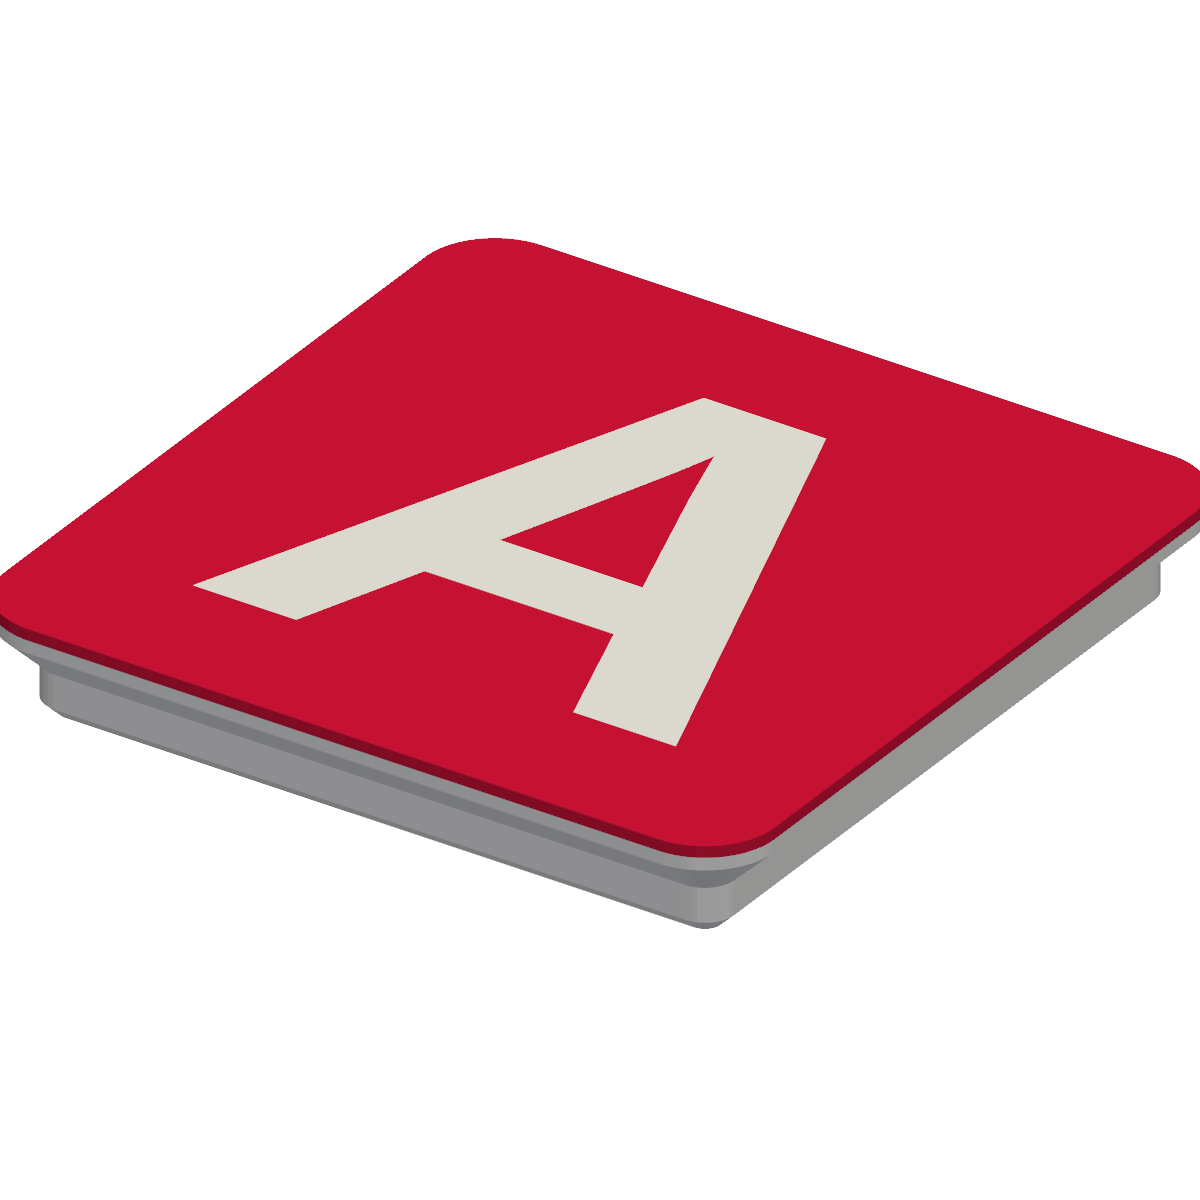
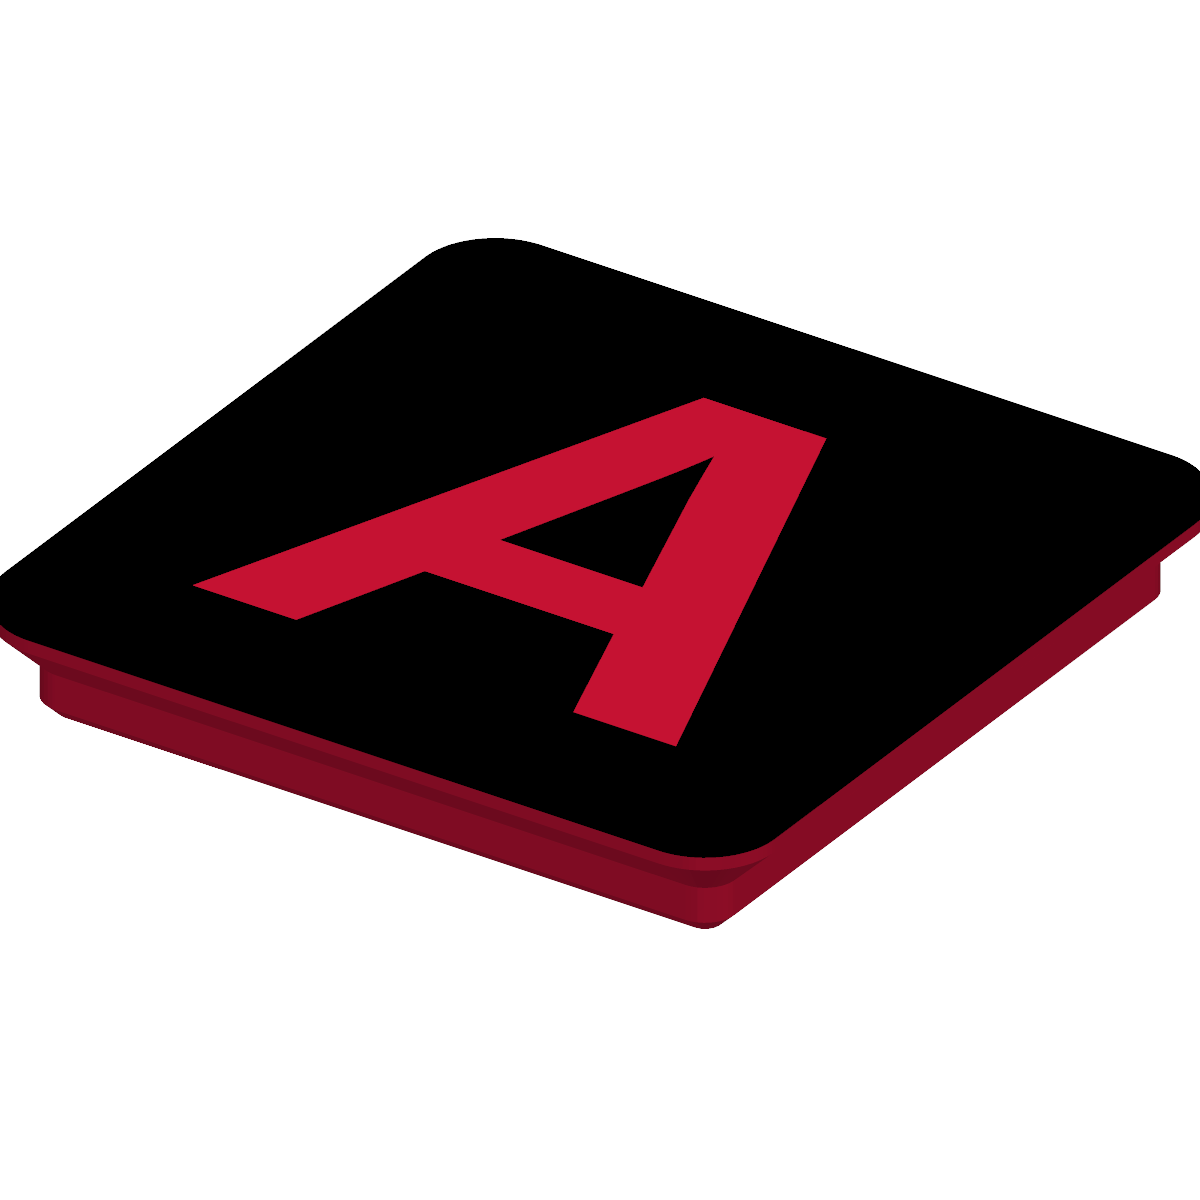
improved letter design

diff --git a/projects/letter-tags/docs/render.py b/projects/letter-tags/docs/render.py
@@ -13,8 +13,8 @@ import sys
 
 import pyvista as pv
 
-BODY_COLOR = "whitesmoke"
-OUTSIDE_COLOR = "crimson"
+BODY_COLOR = "crimson"
+OUTSIDE_COLOR = "black"
 WINDOW = (1200, 1200)
 
 
@@ -36,8 +36,12 @@ def render(body_stl: str, outside_stl: str, out_png: str, mode: str) -> None:
     p.add_mesh(body, color=BODY_COLOR, ambient=0.25, diffuse=0.75, specular=0.1)
     p.add_mesh(outside, color=OUTSIDE_COLOR, ambient=0.25, diffuse=0.75, specular=0.1)
 
-    # 3/4 view from the front-left-above so the cutaway face is visible.
-    p.camera_position = [(50.0, -75.0, 55.0), (0.0, 0.0, 3.0), (0.0, 0.0, 1.0)]
+    # 3/4 view from front-left-above. For cutaway, tilt closer to the cut
+    # plane (smaller X offset, lower Z) so the exposed face shows more area.
+    if mode == "cutaway":
+        p.camera_position = [(25.0, -85.0, 45.0), (0.0, 0.0, 3.0), (0.0, 0.0, 1.0)]
+    else:
+        p.camera_position = [(50.0, -75.0, 55.0), (0.0, 0.0, 3.0), (0.0, 0.0, 1.0)]
     p.enable_parallel_projection()
 
     p.screenshot(out_png, transparent_background=True)

diff --git a/projects/letter-tags/README.md b/projects/letter-tags/README.md
@@ -12,9 +12,15 @@ clean two-color flat top.
 - Flat top with the letter raised at the original top plane and the background
   recessed by `color_layers × layer_height` (default **3 × 0.2 mm = 0.6 mm**).
 - Four 6×2 mm magnet pockets are embedded at the canonical Gridfinity corner
-  positions (±13 mm from center). A **`magnet_cover_layers × layer_height`**
-  ceiling (default **2 × 0.2 mm = 0.4 mm**) sits between each magnet and the
-  base bottom — bridges cleanly across the 6.5 mm hole and keeps the pull strong.
+  positions (±13 mm from center). Each pocket is a loose cylindrical cavity
+  (default **6.45 mm Ø**) with **three vertical bumps at 120°** protruding
+  inward — the inscribed diameter through the bump tips (`magnet_d`,
+  default **5.85 mm**) is the actual press-fit dimension. The bumps taper
+  from a point to full size over `magnet_bump_chamfer` (default **0.6 mm**)
+  on the entry side, so the magnet slides in and only engages the press fit
+  once seated. A **`magnet_cover_layers × layer_height`** ceiling (default
+  **2 × 0.2 mm = 0.4 mm**) sits between each magnet and the base bottom and
+  bridges cleanly across the cavity.
 
 ## Printing
 
@@ -36,25 +42,33 @@ layers to encapsulate the magnets. Cross-section showing the embedded pockets:
 Requires `openscad` and `just`. Run from this directory:
 
 ```sh
-just all        # render A-Z into build/ in parallel
-just one Q      # render a single letter
+just all        # render A-Z as STL pairs (body + outside) into build/ in parallel
+just one Q      # render a single letter as an STL pair
+just mf3        # render A-Z as combined 3MFs (color-tagged, for dual-extruder)
+just one-mf3 Q  # render a single letter as a combined 3MF
 just preview Q  # PNG preview (needs an X display)
 just clean
 ```
 
-CI renders all 26 3MFs on every push and uploads them as the `letter-tags`
+CI renders all 26 STL pairs on every push and uploads them as the `letter-tags`
 workflow artifact.
 
 ## Tunables (top of `letter_tag.scad`)
 
-| Param                 | Default                          | Notes                                                 |
-| --------------------- | -------------------------------- | ----------------------------------------------------- |
-| `layer_height`        | `0.2`                            | Slicer layer height — drives the two derived dims     |
-| `letter`              | `"A"`                            | Override with `-D 'letter="X"'`                       |
-| `font`                | `"Liberation Sans:style=Bold"`   | Any installed font                                    |
-| `letter_size`         | `28`                             | Cap-height target in mm                               |
-| `color_layers`        | `3`                              | Letter-color layers → filament-swap z                 |
-| `tile_height`         | `6`                              | Total thickness, base bottom → top face               |
-| `add_magnets`         | `true`                           | Embed 6×2 mm magnet pockets                           |
-| `magnet_d`            | `6.5`                            | Hole Ø — canonical loose fit (glue or just press in)  |
-| `magnet_cover_layers` | `2`                              | Layers between magnet and baseplate                   |
+| Param                     | Default                        | Notes                                                                |
+| ------------------------- | ------------------------------ | -------------------------------------------------------------------- |
+| `layer_height`            | `0.2`                          | Slicer layer height — drives the derived dims                        |
+| `letter`                  | `"A"`                          | Override with `-D 'letter="X"'`                                      |
+| `font`                    | `"Liberation Sans:style=Bold"` | Any installed font                                                   |
+| `letter_size`             | `28`                           | Cap-height target in mm                                              |
+| `color_layers`            | `3`                            | Letter-color layers → filament-swap z                                |
+| `tile_height`             | `6`                            | Total thickness, base bottom → top face                              |
+| `add_magnets`             | `true`                         | Embed 6×2 mm magnet pockets                                          |
+| `magnet_d`                | `5.85`                         | Inscribed Ø at bump tips (press dim). Lower = tighter, higher = looser |
+| `magnet_h`                | `2.0`                          | Magnet thickness (6×2 mm neodymium)                                  |
+| `magnet_pos`              | `13`                           | Center offset from tile center (8 mm from grid edge)                 |
+| `magnet_cover_layers`     | `2`                            | Layers between magnet and the baseplate side                         |
+| `magnet_clearance_layers` | `1`                            | Extra pocket headroom above the magnet, in layers                    |
+| `magnet_bumps`            | `3`                            | Number of press-fit bumps inside the cavity wall                     |
+| `magnet_bump_protrusion`  | `0.3`                          | Each bump's radial protrusion (cavity Ø = `magnet_d + 2 × this`)     |
+| `magnet_bump_chamfer`     | `0.6`                          | Bump entry chamfer height in mm; eases magnet insertion              |